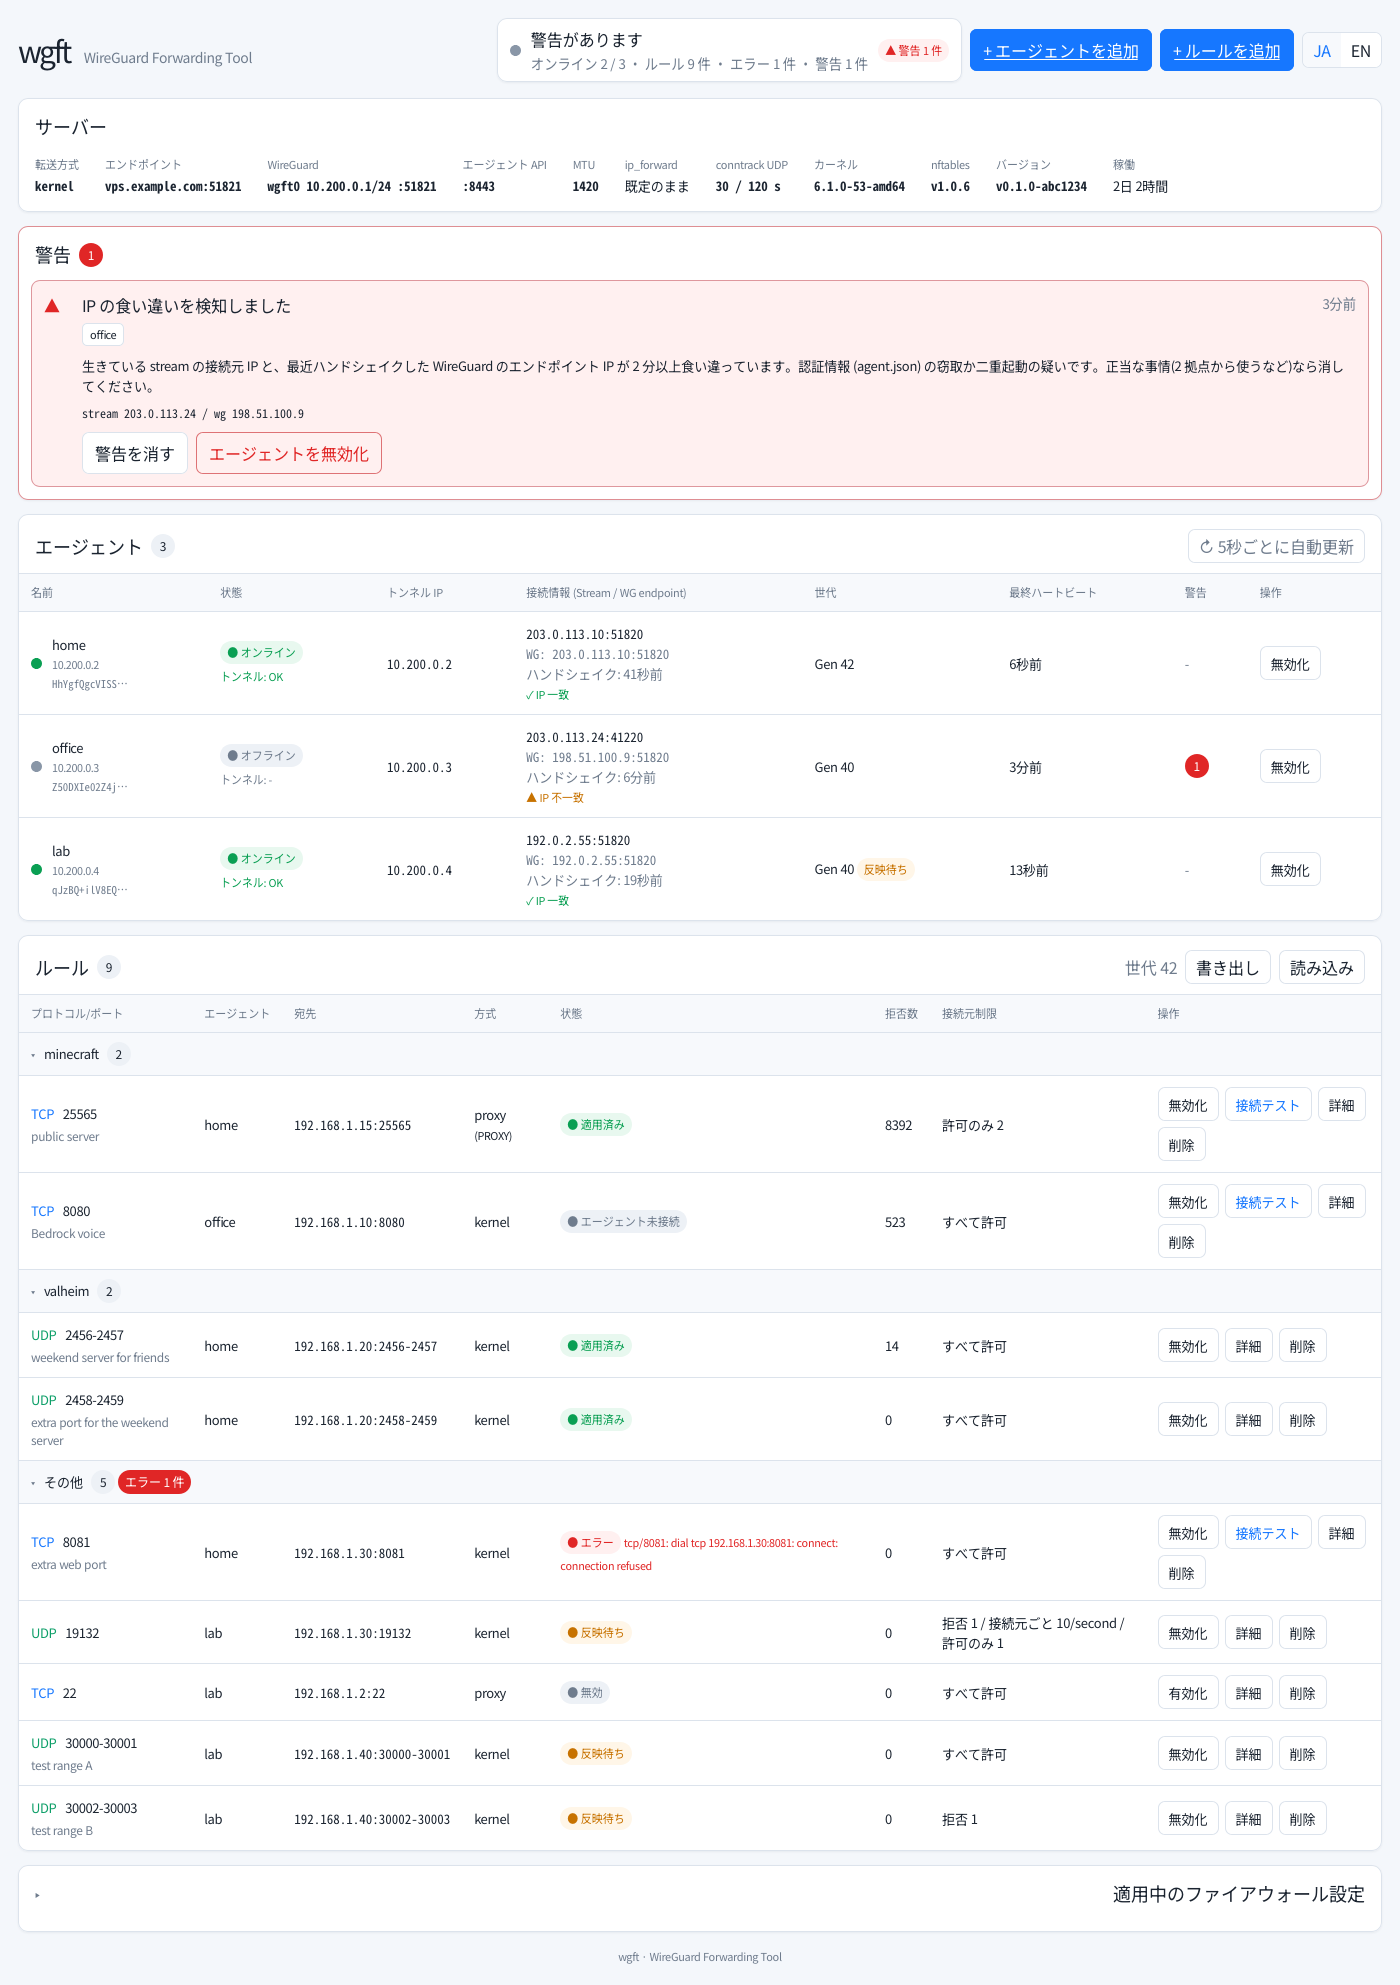
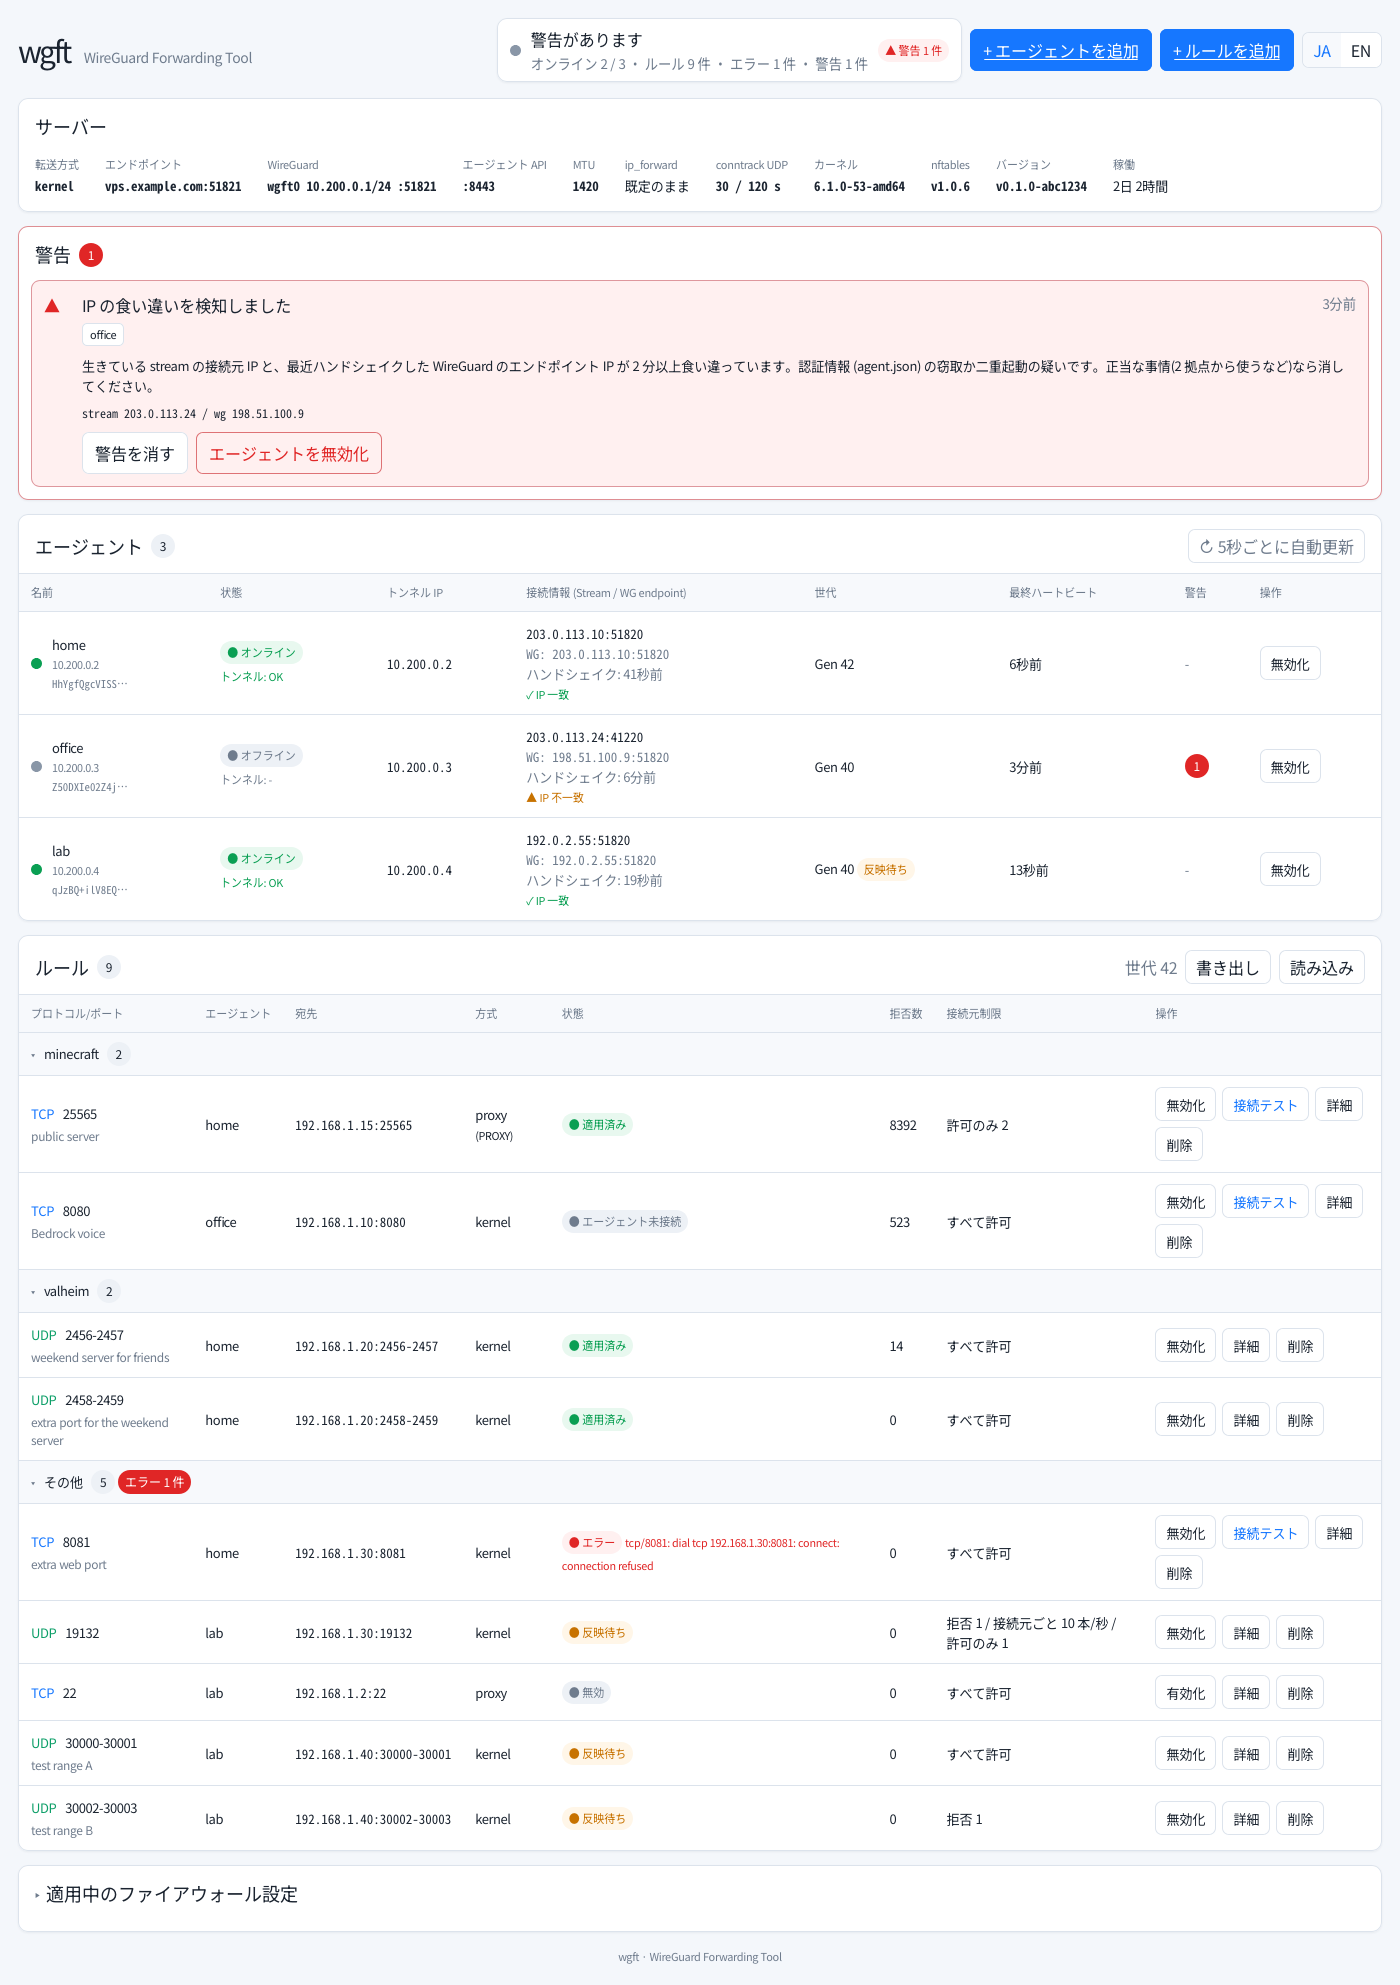
fix(ui): localize rate units in the rule list and align the firewall heading
The restrictions column still printed "10/second" in the Japanese UI after
the detail page learned localized units, and the collapsed firewall
section put its marker and heading at opposite ends of the row.

diff --git a/internal/vpsd/admin/webui/static/styles.css b/internal/vpsd/admin/webui/static/styles.css
@@ -124,7 +124,7 @@ h2 { font-size: 18px; margin: 0; }
 .compare { font-size: 12px; margin-bottom: 10px; }
 .alert-actions { display: flex; flex-wrap: wrap; gap: 8px; }
 .firewall-panel { padding-bottom: 12px; }
-.firewall-details summary { cursor: pointer; list-style: none; }
+.firewall-details summary { cursor: pointer; list-style: none; justify-content: flex-start; gap: 6px; }
 .firewall-details summary::-webkit-details-marker { display: none; }
 .firewall-details summary::before { content: "▸ "; color: var(--muted); }
 .firewall-details[open] summary::before { content: "▾ "; }

diff --git a/internal/vpsd/admin/webui_test.go b/internal/vpsd/admin/webui_test.go
@@ -332,3 +332,28 @@ func TestMergeSection(t *testing.T) {
 		t.Errorf("mergeBlockerLabel(BlockDenyList, ja) = %q, want %q", got, "拒否リストが違う")
 	}
 }
+
+// TestRestrictionSummaryUnits は、一覧の接続元制限の要約でレートの単位が表示言語に
+// 合わせて訳され、日本語に "second" などの英語が混ざらないことを確かめる。
+func TestRestrictionSummaryUnits(t *testing.T) {
+	r := proto.Rule{
+		PerSourceRate: &proto.Rate{Count: 10, Unit: proto.PerSecond},
+		NewFlowRate:   &proto.Rate{Count: 100, Unit: proto.PerMinute},
+		PacketRate:    &proto.Rate{Count: 5000, Unit: proto.PerSecond},
+	}
+	cases := map[string][]string{
+		"ja": {"接続元ごと 10 本/秒", "全体 100 本/分", "パケット 5000 個/秒"},
+		"en": {"per source 10/second", "whole rule 100/minute", "packets 5000/second"},
+	}
+	for locale, wants := range cases {
+		got := restrictionSummary(&r, locale)
+		for _, w := range wants {
+			if !strings.Contains(got, w) {
+				t.Errorf("%s: summary %q does not contain %q", locale, got, w)
+			}
+		}
+		if locale == "ja" && strings.Contains(got, "second") {
+			t.Errorf("ja: summary %q still has an English unit", got)
+		}
+	}
+}

diff --git a/internal/vpsd/admin/webui.go b/internal/vpsd/admin/webui.go
@@ -424,9 +424,10 @@ func restrictionSummary(r *proto.Rule, locale string) string {
 	if len(r.SourceAllow) > 0 {
 		parts = append(parts, fmt.Sprintf(T(locale, "allowN"), len(r.SourceAllow)))
 	}
-	for label, rate := range map[string]*proto.Rate{T(locale, "rateNewFlow"): r.NewFlowRate, T(locale, "ratePkt"): r.PacketRate, T(locale, "rateSource"): r.PerSourceRate} {
+	// 単位は詳細ページと同じく訳す(日本語で "10/second" と英語が混ざらないように)
+	for key, rate := range map[string]*proto.Rate{"rateNewFlow": r.NewFlowRate, "ratePkt": r.PacketRate, "rateSource": r.PerSourceRate} {
 		if rate != nil {
-			parts = append(parts, label+" "+rate.String())
+			parts = append(parts, fmt.Sprintf(T(locale, key), rate.Count, unitLabel(locale, string(rate.Unit))))
 		}
 	}
 	sort.Strings(parts)

diff --git a/internal/vpsd/admin/i18n.go b/internal/vpsd/admin/i18n.go
@@ -94,9 +94,9 @@ var tr = map[string][2]string{
 	"save":         {"保存", "Save"},
 	"denyN":        {"拒否 %d", "%d denied"},
 	"allowN":       {"許可のみ %d", "allow-only %d"},
-	"rateNewFlow":  {"新規フロー", "new flows"},
-	"ratePkt":      {"パケット", "packets"},
-	"rateSource":   {"接続元ごと", "per source"},
+	"rateNewFlow":  {"全体 %[1]d 本/%[2]s", "whole rule %[1]d/%[2]s"},
+	"ratePkt":      {"パケット %[1]d 個/%[2]s", "packets %[1]d/%[2]s"},
+	"rateSource":   {"接続元ごと %[1]d 本/%[2]s", "per source %[1]d/%[2]s"},
 	"noNftTable":   {"(wgft テーブルなし、または nft を読めません)", "(no wgft table, or nft not readable)"},
 	// warnings
 	"warningsHead":      {"警告", "Warnings"},
